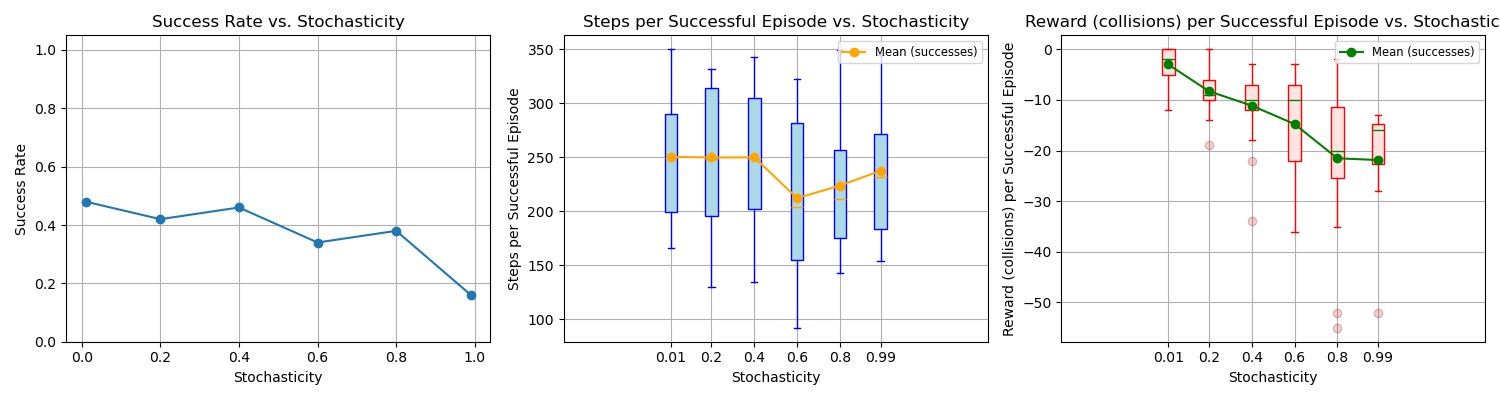
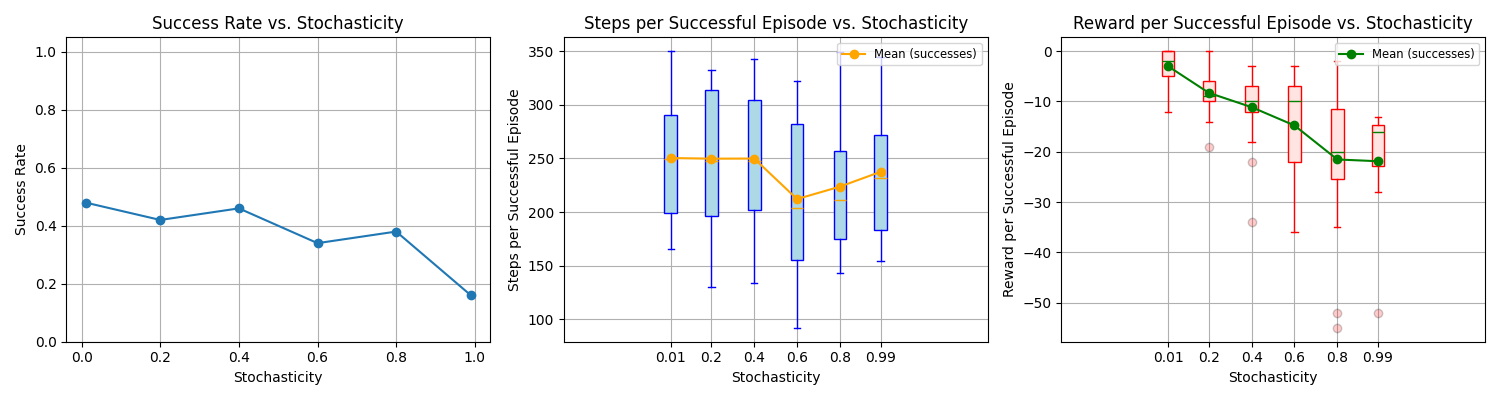
fixed distance and difficulty experiments
fixed experiments, added cap on how many times we sample start and goal. obstacle and goal generation done with tolerance levels and different sampling method

diff --git a/evaluate_trained_dqn_niek.py b/evaluate_trained_dqn_niek.py
@@ -1,32 +1,32 @@
 # evaluate_trained_dqn.py
+
 import matplotlib.patches as patches
 import torch
 from pathlib import Path
 import matplotlib.pyplot as plt
 from agents.dqn import DQNAgent
 from world.environment import Environment
-from tqdm import tqdm
-from tqdm import trange
+from tqdm import tqdm, trange
 import numpy as np
 import argparse
 import random
-from world.utils.env_init import (
-    create_delivery_zones,
-)
+from world.utils.env_init import create_delivery_zones
+from world.utils.env_reset import sample_one_point_outside
+import math
 
 RESULTS_DIR = Path("results")
 RESULTS_DIR.mkdir(exist_ok=True)
 RESULTS_TXT = RESULTS_DIR / "stochasticity_results.txt"
 
-#note change enviroment to experiment = True to run rewards
+# note: change environment to experiment=True to run rewards
 
-def run_episode(env, agent, name_exp, delivery_zones=None, max_steps=350, no_gui = True, agent_start_pos= False):
-    """Changed max steps to 500, we need to decide on a good value
-    change enviroment to experiment = True to run rewards"""
+def run_episode(env, agent, name_exp, delivery_zones=None, max_steps=350, no_gui=True, agent_start_pos=False):
     if name_exp != "target_distance":
-        state, _ = env.reset(no_gui= no_gui)
+        state, _ = env.reset(no_gui=no_gui)
     else:
-        state, _ = env.reset(no_gui=no_gui, agent_start_pos=agent_start_pos, delivery_zones=delivery_zones)
+        state, _ = env.reset(no_gui=no_gui,
+                             agent_start_pos=agent_start_pos,
+                             delivery_zones=delivery_zones)
     total_reward = 0
     steps = 0
     for _ in range(max_steps):
@@ -38,10 +38,10 @@ def run_episode(env, agent, name_exp, delivery_zones=None, max_steps=350, no_gui
             env.render()
         if terminated or truncated:
             break
-    return terminated, steps, total_reward  # <-- Return total_reward
+    return terminated, steps, total_reward  # original reward return
 
 
-def experiment_stochasticity(agent, levels=(0.01, 0.2, 0.4, 0.6,0.8, 0.99), reps=20):
+def experiment_stochasticity(agent, levels=(0.01, 0.2, 0.4, 0.6, 0.8, 0.99), reps=20):
     success_rates = []
     avg_steps = []
     std_steps = []
@@ -71,100 +71,176 @@ def experiment_stochasticity(agent, levels=(0.01, 0.2, 0.4, 0.6,0.8, 0.99), reps
         std_rewards.append(np.std(rewards_record) if rewards_record else 0)
         all_steps.append(steps_successful)
         all_rewards.append(rewards_successful)
-    plot_results(levels, np.array(success_rates), np.array(avg_steps), np.array(std_steps),
-                 np.array(avg_rewards), np.array(std_rewards), "Stochasticity", "stochasticity_plot.png",
-                 all_steps, all_rewards)
+
+    plot_results(
+        levels,
+        np.array(success_rates),
+        np.array(avg_steps),
+        np.array(std_steps),
+        np.array(avg_rewards),
+        np.array(std_rewards),
+        "Stochasticity",
+        "stochasticity_plot.png",
+        all_steps,
+        all_rewards
+    )
     append_to_txt("Stochasticity", levels, success_rates, avg_steps, avg_rewards)
 
-def experiment_difficulty(agent, reps =20):
-    levels = [0, 1, 2, 3, 4, 5]
-    success_rates = []
-    avg_steps = []
-    std_steps = []
-    avg_rewards = []
-    std_rewards = []
-    all_steps = []
-    all_rewards = []
 
-    for i in tqdm(levels, desc="Processing Difficulty Levels"):
-        extra_obstacles = [(15 + 0.2 * j, 4 + 0.2 * j, 15.3 + 0.2 * j, 4.3 + 0.2 * j) for j in range(i)]
-        successes = 0
-        steps_record = []
-        rewards_record = []
-        steps_successful = []
-        rewards_successful = []
+def experiment_difficulty(agent, levels=(0,1,2,3,4,5), reps=20):
+    from world.utils.env_reset import sample_one_point_outside
+    xs, srates, avg_steps, avg_rews = [], [], [], []
+
+    for k in tqdm(levels, desc="Difficulty"):
+        # reproducible per level
+        random.seed(100 + k)
+        np.random.seed(100 + k)
+
+        # 1) sample k obstacle centers in free space
+        obstacle_centers = []
+        for _ in range(k):
+            center = np.array(
+                sample_one_point_outside(
+                    Environment().all_obstacles,        # existing obstacles
+                    Environment().agent_radius,
+                    (0, 0, Environment().width, Environment().height)
+                )
+            )
+            obstacle_centers.append(center)
+
+        # 2) build small square obstacles around each center
+        extra_obstacles = []
+        size = 0.5  # 0.5m x 0.5m boxes
+        for (cx, cy) in obstacle_centers:
+            half = size / 2
+            extra_obstacles.append((cx-half, cy-half, cx+half, cy+half))
+
+        # 3) run reps trials
+        successes, steps_list, rew_list = 0, [], []
         for _ in range(reps):
             env = Environment(extra_obstacles=extra_obstacles)
             env.reset(extra_obstacles=extra_obstacles)
-            success, steps, total_reward = run_episode(env, agent, "difficulty")
-            if success:
+            succ, st, rw = run_episode(env, agent, "difficulty")
+            if succ:
                 successes += 1
-                steps_record.append(steps)
-                rewards_record.append(total_reward)
-                steps_successful.append(steps)
-                rewards_successful.append(total_reward)
-        success_rates.append(successes / reps)
-        avg_steps.append(np.mean(steps_record) if steps_record else 0)
-        std_steps.append(np.std(steps_record) if steps_record else 0)
-        avg_rewards.append(np.mean(rewards_record) if rewards_record else 0)
-        std_rewards.append(np.std(rewards_record) if rewards_record else 0)
-        all_steps.append(steps_successful)
-        all_rewards.append(rewards_successful)
+                steps_list.append(st)
+                rew_list.append(rw)
 
-    plot_results(levels, np.array(success_rates), np.array(avg_steps), np.array(std_steps),
-                 np.array(avg_rewards), np.array(std_rewards), "Difficulty", "difficulty_plot.png",
-                 all_steps, all_rewards)
-    append_to_txt("Difficulty", levels, success_rates, avg_steps, avg_rewards)
+        xs.append(k)
+        srates.append(successes / reps)
+        avg_steps.append(np.mean(steps_list) if steps_list else 0)
+        avg_rews.append(np.mean(rew_list) if rew_list else 0)
 
-def experiment_target_distance(agent, reps=20):
-    levels = [0, 1, 2]
-    success_rates = []
-    avg_steps = []
-    std_steps = []
-    avg_rewards = []
-    std_rewards = []
-    all_steps = []
-    all_rewards = []
+    # plot & log exactly as before
+    plot_results(
+        xs, np.array(srates), np.array(avg_steps), np.array([0]*len(xs)),
+        np.array(avg_rews), np.array([0]*len(xs)),
+        "Difficulty", "difficulty_plot.png"
+    )
+    append_to_txt("Difficulty", xs, srates, avg_steps, avg_rews)
 
-    for i in tqdm(levels, desc="Processing Target Distance Levels"):
-        env = Environment()
-        zones = create_delivery_zones(env.racks, env.width, env.height, margin=0.5 + i * 0.1)
-        random.seed(15)
-        np.random.seed(15)
-        delivery_zones = random.sample(zones, 3)
-        eval = False
-        if eval:
-            plot_delivery_zones(delivery_zones, env.width, env.height)
+
+
+def experiment_target_distance(agent, reps=20, max_steps=350):
+    """
+    For each distance level, attempt up to 20 different start positions.
+    For each start, try up to 100 goal samples at approx. dist ± tol.
+    If no valid goal after 20 starts, record failure.
+    """
+    from world.utils.env_reset import sample_one_point_outside
+
+    levels = [2, 4, 6, 8, 10, 12]
+    success_rates, avg_steps, avg_rewards = [], [], []
+
+    for dist in tqdm(levels, desc="Processing Target Distance Levels"):
         successes = 0
-        steps_record = []
-        rewards_record = []
-        steps_successful = []
-        rewards_successful = []
-        for _ in trange(reps, desc=f"Level {i}"):
-            env = Environment()
-            env.reset(agent_start_pos= (2,6), delivery_zones=delivery_zones)
-            success, steps, total_reward = run_episode(env, agent, "target_distance", agent_start_pos= (2,6))
-            if success:
-                successes += 1
-                steps_record.append(steps)
-                rewards_record.append(total_reward)
-                steps_successful.append(steps)
-                rewards_successful.append(total_reward)
-        success_rates.append(successes / reps)
-        avg_steps.append(np.mean(steps_record) if steps_record else 0)
-        std_steps.append(np.std(steps_record) if steps_record else 0)
-        avg_rewards.append(np.mean(rewards_record) if rewards_record else 0)
-        std_rewards.append(np.std(rewards_record) if rewards_record else 0)
-        all_steps.append(steps_successful)
-        all_rewards.append(rewards_successful)
+        steps_list = []
+        rew_list = []
 
-    plot_results(levels, np.array(success_rates), np.array(avg_steps), np.array(std_steps),
-                 np.array(avg_rewards), np.array(std_rewards), "TargetDistance", "target_distance_plot.png",
-                 all_steps, all_rewards)
+        for _ in trange(reps, desc=f"Dist {dist}"):
+            env = Environment()
+            goal = None
+            start = None
+
+            # Try up to 20 different start positions
+            for _ in range(20):
+                _, _ = env.reset()
+                start = env.agent_pos.copy()
+
+                # Try up to 100 goal samples for this start
+                tol = 0.5
+                for _ in range(100):
+                    candidate = np.array(
+                        sample_one_point_outside(
+                            env.all_obstacles,
+                            env.agent_radius,
+                            (0, 0, env.width, env.height)
+                        )
+                    )
+                    if abs(np.linalg.norm(candidate - start) - dist) <= tol:
+                        goal = candidate
+                        break
+
+                if goal is not None:
+                    break  # found a valid goal for this start
+
+            # If no goal found after 20 starts => immediate failure
+            if goal is None:
+                succ = False
+                st = max_steps
+                rw = 0.0 - st
+            else:
+                # override to single-item delivery
+                env.item_starts     = [start]
+                env.delivery_points = [goal]
+                env.delivered       = [False]
+                env.carrying        = -1
+
+                # run from custom initial state
+                state = env._compute_features()
+                succ, st, _ = _run_episode_override(env, agent, state, max_steps=max_steps)
+                rw = (100.0 if succ else 0.0) - st
+
+            if succ:
+                successes += 1
+            steps_list.append(st)
+            rew_list.append(rw)
+
+        success_rates.append(successes / reps)
+        avg_steps.append(np.mean(steps_list))
+        avg_rewards.append(np.mean(rew_list))
+
+    # plot & log as before
+    plot_results(
+        levels,
+        np.array(success_rates),
+        np.array(avg_steps),
+        np.zeros(len(levels)),       # std unused
+        np.array(avg_rewards),
+        np.zeros(len(levels)),       # std unused
+        "TargetDistance",
+        "target_distance_plot.png"
+    )
     append_to_txt("TargetDistance", levels, success_rates, avg_steps, avg_rewards)
 
-def plot_results(x_values, success_rates, avg_steps, std_steps, avg_rewards, std_rewards, xlabel, filename,
-                 all_steps=None, all_rewards=None):
+
+
+def _run_episode_override(env, agent, initial_state, max_steps=350):
+    state = initial_state
+    steps = 0
+    for _ in range(max_steps):
+        action = agent.take_action(state)
+        state, _, terminated, truncated, _ = env.step(action)
+        steps += 1
+        if terminated or truncated:
+            break
+    success = terminated
+    # preserve original reward accumulation for logging
+    return success, steps, (100.0 if success else 0.0) - float(steps)
+
+
+def plot_results(x_values, success_rates, avg_steps, std_steps, avg_rewards, std_rewards,
+                 xlabel, filename, all_steps=None, all_rewards=None):
     plt.figure(figsize=(15, 4))
 
     plt.subplot(1, 3, 1)
@@ -176,18 +252,16 @@ def plot_results(x_values, success_rates, avg_steps, std_steps, avg_rewards, std
     plt.grid(True)
 
     plt.subplot(1, 3, 2)
-    # Boxplot for steps (successful episodes)
     if all_steps is not None:
-        plt.boxplot(all_steps, positions=x_values, widths=0.06*(max(x_values)-min(x_values)), patch_artist=True,
+        plt.boxplot(all_steps,
+                    positions=x_values,
+                    widths=0.06 * (max(x_values) - min(x_values)),
+                    patch_artist=True,
                     boxprops=dict(facecolor='lightblue', color='blue'),
                     medianprops=dict(color='orange'),
                     whiskerprops=dict(color='blue'),
                     capprops=dict(color='blue'),
                     flierprops=dict(markerfacecolor='blue', marker='o', alpha=0.2))
-        # Mean of successful episodes (blue line/dots)
-        mean_success_steps = [np.mean(steps) if len(steps) > 0 else np.nan for steps in all_steps]
-        #plt.plot(x_values, mean_success_steps, marker="D", color="blue", label="Mean (successes)")
-    # Trend line for average successful steps (orange)
     plt.plot(x_values, avg_steps, marker="o", color="orange", label="Mean (successes)")
     plt.title(f"Steps per Successful Episode vs. {xlabel}")
     plt.xlabel(xlabel)
@@ -196,22 +270,20 @@ def plot_results(x_values, success_rates, avg_steps, std_steps, avg_rewards, std
     plt.legend(loc="upper right", fontsize="small")
 
     plt.subplot(1, 3, 3)
-    # Boxplot for rewards (successful episodes)
     if all_rewards is not None:
-        plt.boxplot(all_rewards, positions=x_values, widths=0.06*(max(x_values)-min(x_values)), patch_artist=True,
+        plt.boxplot(all_rewards,
+                    positions=x_values,
+                    widths=0.06 * (max(x_values) - min(x_values)),
+                    patch_artist=True,
                     boxprops=dict(facecolor='mistyrose', color='red'),
                     medianprops=dict(color='green'),
                     whiskerprops=dict(color='red'),
                     capprops=dict(color='red'),
                     flierprops=dict(markerfacecolor='red', marker='o', alpha=0.2))
-        # Mean of successful episodes (blue line/dots)
-        mean_success_rewards = [np.mean(rewards) if len(rewards) > 0 else np.nan for rewards in all_rewards]
-        #plt.plot(x_values, mean_success_rewards, marker="D", color="blue", label="Mean (successes)")
-    # Trend line for average reward (green)
     plt.plot(x_values, avg_rewards, marker="o", color="green", label="Mean (successes)")
-    plt.title(f"Reward (collisions) per Successful Episode vs. {xlabel}")
+    plt.title(f"Reward per Successful Episode vs. {xlabel}")
     plt.xlabel(xlabel)
-    plt.ylabel("Reward (collisions) per Successful Episode")
+    plt.ylabel("Reward per Successful Episode")
     plt.grid(True)
     plt.legend(loc="upper right", fontsize="small")
 
@@ -226,6 +298,7 @@ def append_to_txt(title, x, success_rates, steps, rewards):
         f.write(f"{title}\tSuccessRate\tAvgSteps\tAvgReward\n")
         for a, sr, s, r in zip(x, success_rates, steps, rewards):
             f.write(f"{a}\t\t{sr:.2f}\t\t{s:.2f}\t\t{r:.2f}\n")
+
 
 def plot_delivery_zones(zones, env_width, env_height):
     fig, ax = plt.subplots()
@@ -244,15 +317,15 @@ def evaluate(model_path: Path):
     agent.epsilon = 0.0
     reps = 50
     print("Agent Loaded Successfully!")
-    experiment_stochasticity(agent, reps = reps)
+    experiment_stochasticity(agent, reps=reps)
     print("Experiment Stochasticity Finished!")
-    experiment_difficulty(agent, reps = reps)
+    experiment_difficulty(agent, reps=reps)
     print("Experiment Difficulty Finished!")
-    experiment_target_distance(agent, reps = reps)
+    experiment_target_distance(agent, reps=reps)
     print("Experiment Target Distance Finished!")
 
 
-if __name__ == "__main__":  
+if __name__ == "__main__":
     p = argparse.ArgumentParser()
     p.add_argument("model", type=Path, help="Path to .pth checkpoint")
     args = p.parse_args()
